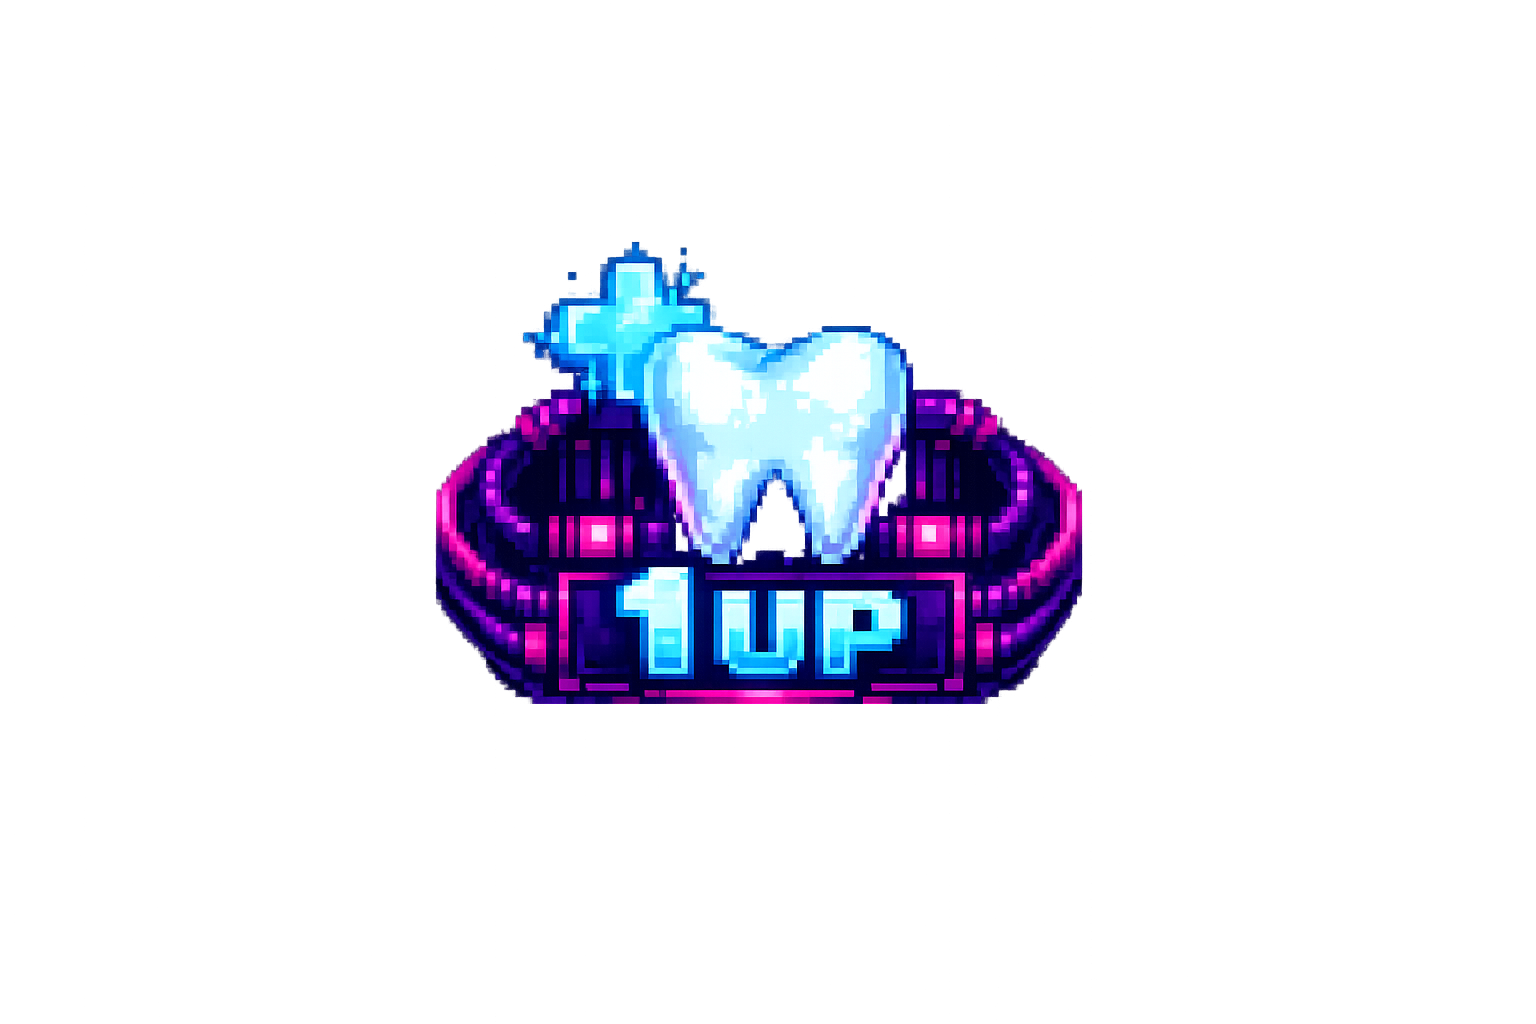
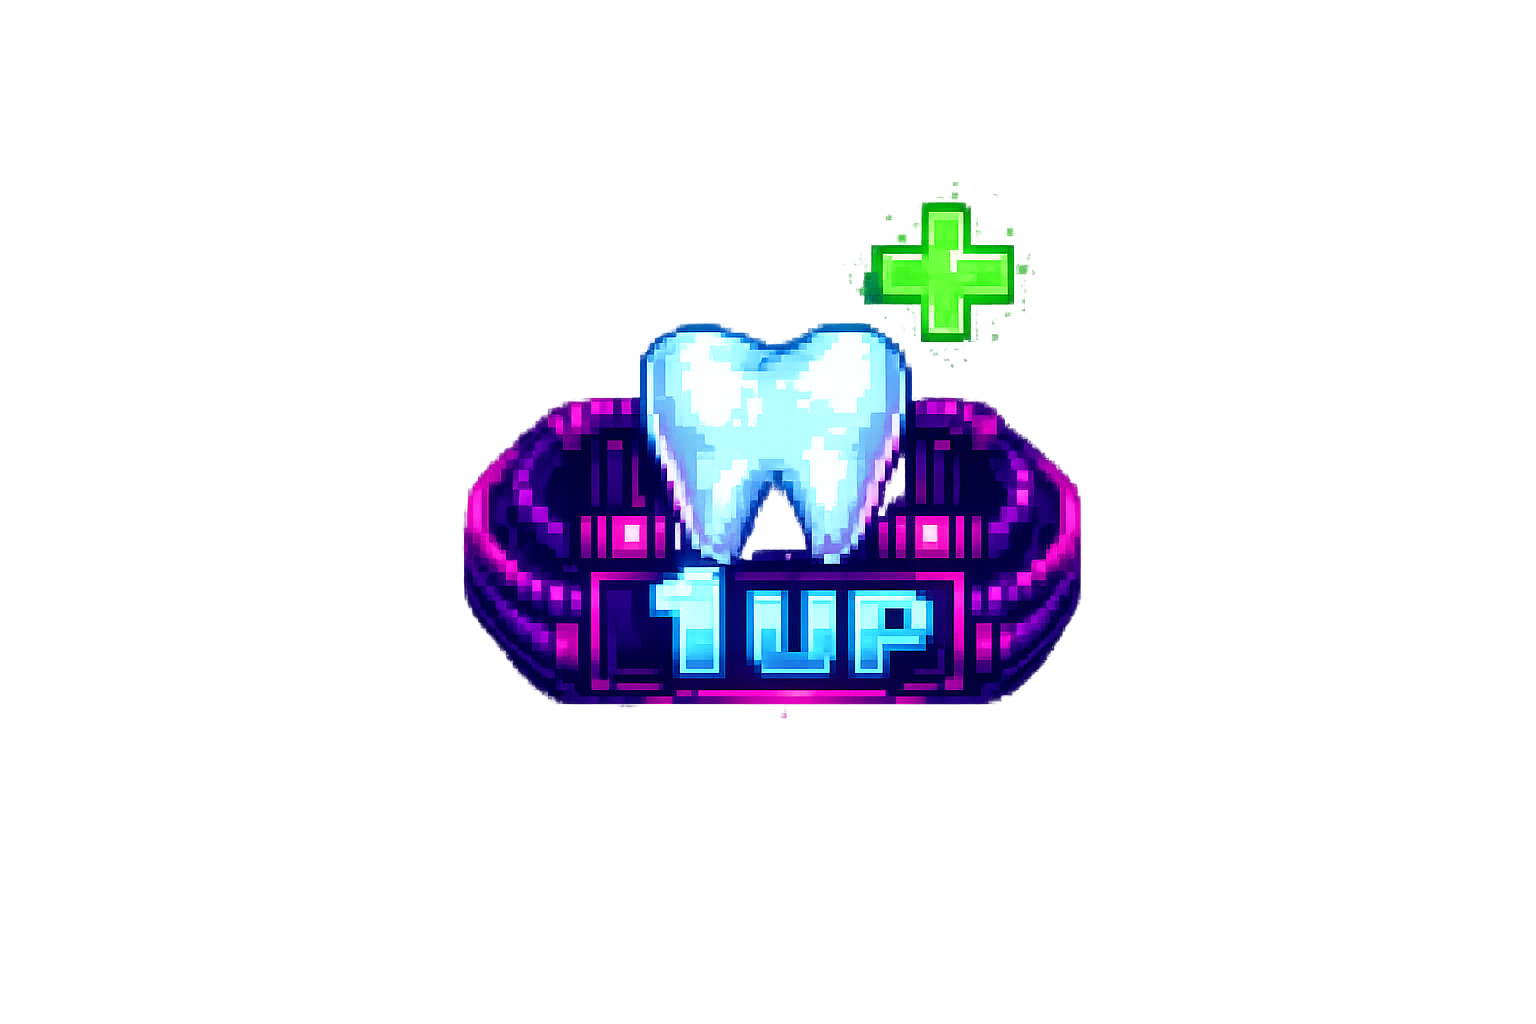
yuh

Changed region(s): [[0.2812, 0.1875, 0.7188, 0.6875]]

diff --git a/style.css b/style.css
@@ -691,18 +691,16 @@ body::before {
     top: 50%;
     left: 50%;
     transform: translate(-50%, -50%);
-    width: min(400px, 80vw);
+    width: min(400px, 85vw);
     background: rgba(0, 0, 0, 0.92);
     backdrop-filter: blur(20px) saturate(180%);
     display: flex;
     flex-direction: column;
-    justify-content: center;
-    align-items: center;
     z-index: 3000;
     border-radius: 20px;
     border: 2px solid rgba(255, 100, 100, 0.3);
     box-shadow: 0 20px 60px rgba(0, 0, 0, 0.8);
-    padding: 40px;
+    overflow: hidden;
 }
 
 #upgrade-screen.hidden, #game-over-screen.hidden {
@@ -1080,20 +1078,21 @@ body::before {
 }
 
 
-.game-over-content {
+.game-over-header {
     display: flex;
     flex-direction: column;
     align-items: center;
-    gap: 20px;
-    text-align: center;
+    padding: 15px 15px 10px 15px;
+    background: rgba(255, 255, 255, 0.05);
+    border-bottom: 1px solid rgba(255, 255, 255, 0.1);
 }
 
 .game-over-typeslop-logo {
-    max-width: 180px;
+    max-width: 160px;
     width: 100%;
     height: auto;
-    margin-bottom: 10px;
-    filter: drop-shadow(0 0 20px rgba(102, 126, 234, 0.8));
+    margin-bottom: 5px;
+    filter: drop-shadow(0 0 15px rgba(102, 126, 234, 0.8));
     animation: game-over-logo-pulse 2s ease-in-out infinite;
 }
 
@@ -1103,36 +1102,65 @@ body::before {
 }
 
 .game-over-logo {
-    max-width: 300px;
+    max-width: 160px;
     width: 100%;
     height: auto;
-    margin-bottom: 10px;
+}
+
+.game-over-body {
+    flex: 1;
+    padding: 15px;
+    display: flex;
+    flex-direction: column;
+    gap: 12px;
 }
 
 .game-over-stats {
     display: flex;
+    justify-content: space-around;
+    gap: 15px;
+    margin-bottom: 5px;
+}
+
+.stat-item {
+    display: flex;
     flex-direction: column;
-    gap: 10px;
-    font-size: 18px;
-    color: rgba(255, 255, 255, 0.9);
+    align-items: center;
+    text-align: center;
+}
+
+.stat-label {
+    font-size: 11px;
+    color: rgba(255, 255, 255, 0.7);
+    text-transform: uppercase;
+    letter-spacing: 0.5px;
+    margin-bottom: 3px;
+}
+
+.stat-value {
+    font-size: 20px;
+    font-weight: 700;
+    color: var(--text-primary);
     text-shadow: 0 2px 4px rgba(0, 0, 0, 0.5);
 }
 
-.game-over-options {
+.game-over-footer {
     display: flex;
-    flex-direction: column;
-    gap: 15px;
-    width: 100%;
+    gap: 10px;
+    padding: 12px 15px 15px 15px;
+    background: rgba(255, 255, 255, 0.05);
+    border-top: 1px solid rgba(255, 255, 255, 0.1);
 }
 
 .game-over-btn {
-    padding: 15px 30px;
-    font-size: 16px;
+    flex: 1;
+    padding: 10px 16px;
+    font-size: 14px;
     font-weight: 600;
     border: 1px solid var(--glass-border);
     background: var(--glass-bg);
     color: var(--text-primary);
-    border-radius: 12px;
+    border-radius: 10px;
     cursor: pointer;
     transition: all 0.3s cubic-bezier(0.4, 0, 0.2, 1);
     backdrop-filter: blur(20px) saturate(180%);
@@ -1142,15 +1170,79 @@ body::before {
 .game-over-btn:hover {
     background: rgba(255, 255, 255, 0.15);
     border-color: var(--accent-primary);
-    transform: translateY(-2px);
-    box-shadow: 0 8px 25px rgba(99, 102, 241, 0.2);
+    transform: translateY(-1px);
+    box-shadow: 0 6px 20px rgba(99, 102, 241, 0.2);
+}
+
+/* Dental Facts Section */
+.dental-facts-section {
+    background: rgba(255, 255, 255, 0.08);
+    border: 1px solid rgba(255, 255, 255, 0.15);
+    border-radius: 10px;
+    padding: 12px;
+    margin: 0;
+    backdrop-filter: blur(20px) saturate(180%);
+    box-shadow: var(--glass-shadow);
+    text-align: center;
+    animation: dental-facts-appear 0.6s ease-out;
+}
+
+@keyframes dental-facts-appear {
+    from {
+        opacity: 0;
+        transform: translateY(20px) scale(0.9);
+    }
+    to {
+        opacity: 1;
+        transform: translateY(0) scale(1);
+    }
+}
+
+.dental-facts-title {
+    background: linear-gradient(135deg, #ffd700, #ffed4e);
+    -webkit-background-clip: text;
+    -webkit-text-fill-color: transparent;
+    background-clip: text;
+    margin-bottom: 6px;
+    font-size: 13px;
+    font-weight: 700;
+    letter-spacing: 0.7px;
+    text-transform: uppercase;
+    animation: dental-facts-title-pulse 2s ease-in-out infinite;
+}
+
+@keyframes dental-facts-title-pulse {
+    0%, 100% { opacity: 0.9; transform: scale(1); }
+    50% { opacity: 1; transform: scale(1.05); }
+}
+
+.dental-fact-content {
+    color: var(--text-secondary);
+    font-size: 11px;
+    line-height: 1.3;
+    font-weight: 500;
+    text-shadow: 0 1px 2px rgba(0, 0, 0, 0.3);
+    padding: 8px 6px;
+    border-radius: 6px;
+    background: rgba(255, 255, 255, 0.05);
+    border: 1px solid rgba(255, 255, 255, 0.1);
+    min-height: 40px;
+    display: flex;
+    align-items: center;
+    justify-content: center;
+    transition: all 0.3s ease;
+}
+
+.dental-fact-content:hover {
+    background: rgba(255, 255, 255, 0.08);
+    border-color: rgba(255, 255, 255, 0.2);
+    transform: translateY(-1px);
 }
 
 .restart-btn {
     background: linear-gradient(135deg, var(--success), #22c55e);
     border-color: var(--success);
 }
-
 .restart-btn:hover {
     background: linear-gradient(135deg, #22c55e, #16a34a);
     border-color: #22c55e;
@@ -1164,30 +1256,6 @@ body::before {
 .main-menu-btn:hover {
     background: linear-gradient(135deg, var(--accent-secondary), var(--accent-tertiary));
     border-color: var(--accent-secondary);
-}
-
-/* Upgrade Screen Header */
-.upgrade-header {
-    display: flex;
-    flex-direction: column;
-    align-items: center;
-    gap: clamp(4px, 1vh, 8px);
-    margin-bottom: clamp(8px, 1.5vh, 12px);
-    animation: header-float 3s ease-in-out infinite;
-    width: 100%;
-    text-align: center;
-}
-
-@keyframes header-float {
-    0%, 100% { transform: translateY(0); }
-    50% { transform: translateY(-10px); }
-}
-
-.upgrade-title-image {
-    max-width: clamp(160px, 28vw, 240px);
-    height: auto;
-    filter: drop-shadow(0 0 20px rgba(255, 215, 0, 0.6));
-    animation: title-glow 2s ease-in-out infinite alternate;
 }
 
 @keyframes title-glow {

diff --git a/script.js b/script.js
@@ -26,7 +26,39 @@ const WORD_LISTS = {
   ]
 }
 
-
+// Fun Dental Facts
+const DENTAL_FACTS = [
+    "The average person spends 38.5 days brushing their teeth over their lifetime!",
+    "Tooth enamel is the hardest substance in the human body - even harder than bone!",
+    "Your teeth are unique to you, just like your fingerprints. No two sets are the same!",
+    "The ancient Egyptians used a form of toothpaste made from ox hooves, myrrh, and eggshells.",
+    "Dental floss was first invented in 1815 by a New Orleans dentist named Levi Spear Parmly.",
+    "The world's oldest known recipe for toothpaste dates back to 4th century AD Egypt.",
+    "About 25% of adults don't brush their teeth twice a day as recommended by dentists.",
+    "The first toothbrushes with bristles were used in China around 1498, made from hog hair!",
+    "Your mouth produces over 25,000 quarts of saliva in your lifetime - enough to fill two swimming pools!",
+    "The average person has 32 teeth, but some people are born with extra teeth called supernumerary teeth.",
+    "Tooth decay is the second most common disease after the common cold!",
+    "The first dental school in the world opened in Baltimore in 1840.",
+    "Ancient Romans used urine as mouthwash because it contains ammonia which cleans teeth!",
+    "Baby teeth start forming when the baby is still in the womb, but don't appear until 6-12 months after birth.",
+    "The tooth fairy tradition dates back to early European traditions where a tooth was buried to protect the child from witches.",
+    "Dental plaque contains more than 300 different species of bacteria!",
+    "The first modern dental drill was powered by a foot pedal and invented in 1864.",
+    "George Washington had dentures made from gold, ivory, lead, and human and animal teeth!",
+    "The first toothpaste in a tube was introduced in 1892 by Dr. Washington Sheffield.",
+    "Dental X-rays were discovered by accident in 1895 when Wilhelm Conrad Roentgen was experimenting with cathode rays.",
+    "The average toothbrush has about 2,500 bristles grouped into 40 tufts.",
+    "Toothbrush bristles were made from boar hair until nylon was invented in 1938.",
+    "The first dental floss patent was granted in 1874 to Asa B. Stoddard.",
+    "Dental caries (cavities) have been found in prehistoric human remains dating back over 1 million years!",
+    "The first female dentist in America was Emeline Roberts Jones, who started practicing in 1855.",
+    "Ancient Greeks used a mixture of iron rust and coral powder to clean their teeth.",
+    "The world's largest collection of human teeth is over 1,000 teeth and belongs to a dentist in India!",
+    "Dental anesthesia was first used in 1844 by Dr. Horace Wells using nitrous oxide.",
+    "The first electric toothbrush was invented in 1939 but wasn't sold to the public until 1960.",
+    "Your teeth can tell scientists about your diet, health, and even where you grew up!"
+];
 
 // Game State
 class GameState {
@@ -2267,6 +2299,11 @@ class TypeSlopGame {
         
         document.getElementById('final-score').textContent = this.gameState.score;
         document.getElementById('final-wave').textContent = this.gameState.wave;
+        
+        // Display a random dental fact
+        const randomFact = DENTAL_FACTS[Math.floor(Math.random() * DENTAL_FACTS.length)];
+        document.getElementById('dental-fact').textContent = randomFact;
+        
         this.gameOverScreen.classList.remove('hidden');
         this.screenBackdrop.classList.remove('hidden');
     }

diff --git a/index.html b/index.html
@@ -88,17 +88,31 @@
         
         <!-- Game Over Screen -->
         <section id="game-over-screen" class="hidden" role="dialog" aria-labelledby="game-over-title" aria-modal="true">
-            <div class="game-over-content">
+            <div class="game-over-header">
                 <img src="larger-logo.png" alt="TypeSlop Logo" class="game-over-typeslop-logo">
                 <img src="game-over-final.png" alt="GAME OVER" class="game-over-logo" id="game-over-title">
+            </div>
+            <div class="game-over-body">
                 <div class="game-over-stats">
-                    <p>Final Score: <span id="final-score">0</span></p>
-                    <p>Waves Survived: <span id="final-wave">0</span></p>
+                    <div class="stat-item">
+                        <span class="stat-label">Final Score:</span>
+                        <span class="stat-value" id="final-score">0</span>
+                    </div>
+                    <div class="stat-item">
+                        <span class="stat-label">Waves Survived:</span>
+                        <span class="stat-value" id="final-wave">0</span>
+                    </div>
                 </div>
-                <div class="game-over-options">
-                    <button id="restart-btn" class="game-over-btn restart-btn" aria-label="Restart the game">Restart?</button>
-                    <button id="main-menu-btn" class="game-over-btn main-menu-btn" aria-label="Return to main menu">Main Menu</button>
+                <div class="dental-facts-section">
+                    <h3 class="dental-facts-title">Fun Dental Fact!</h3>
+                    <div class="dental-fact-content" id="dental-fact">
+                        Loading fact...
+                    </div>
                 </div>
+            </div>
+            <div class="game-over-footer">
+                <button id="restart-btn" class="game-over-btn restart-btn" aria-label="Restart the game">Restart?</button>
+                <button id="main-menu-btn" class="game-over-btn main-menu-btn" aria-label="Return to main menu">Main Menu</button>
             </div>
         </section>
 